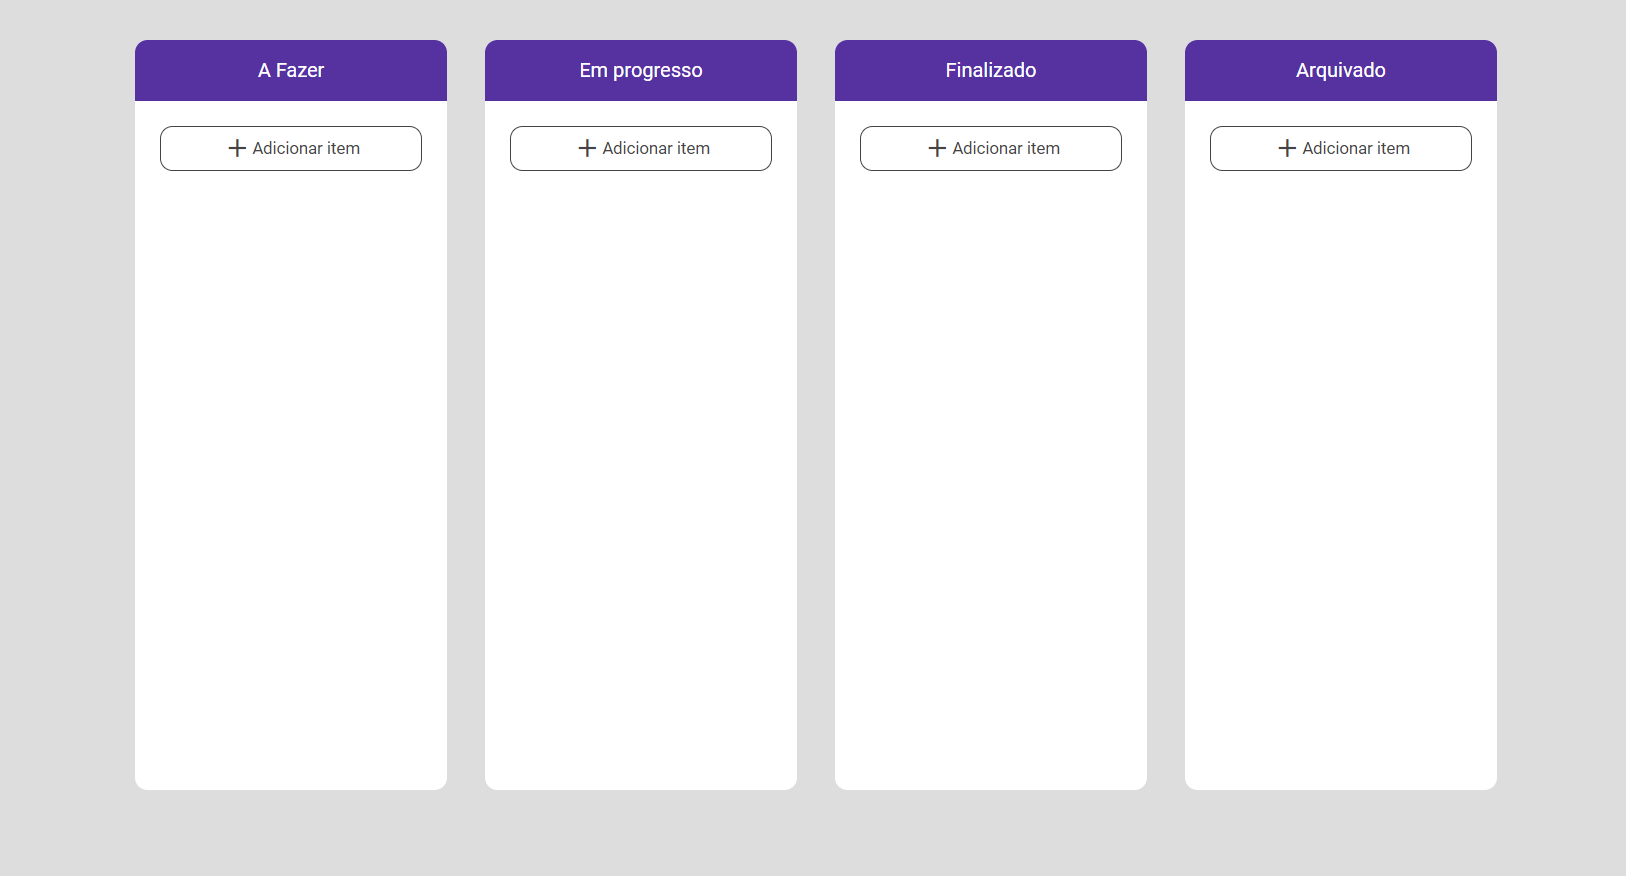
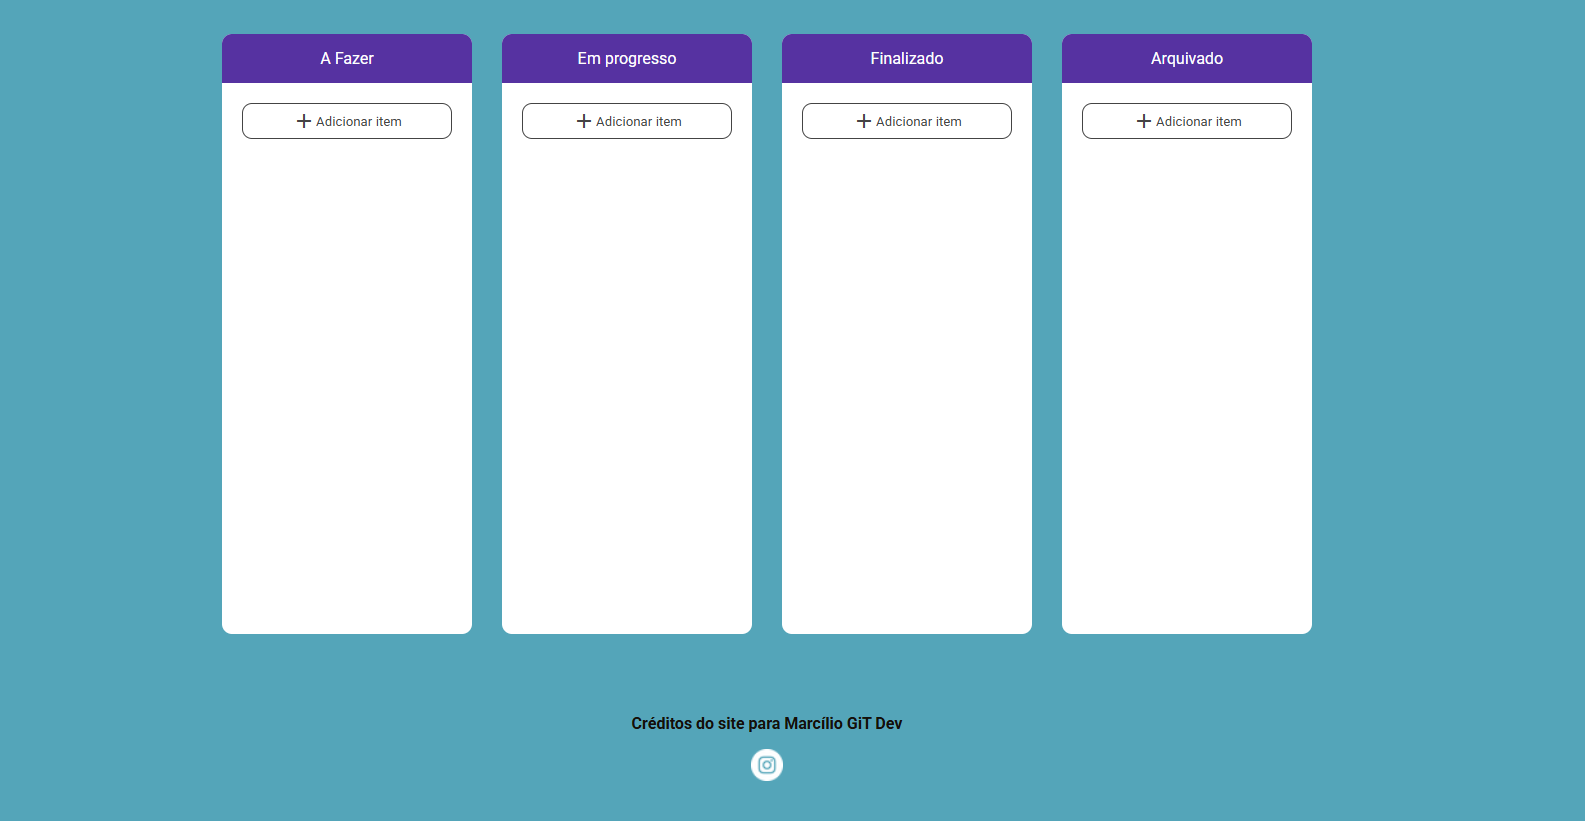
Add files via upload

diff --git a/style.css b/style.css
@@ -11,7 +11,7 @@
   }
   
   body {
-    background-color: #DDD;
+    background-color: #54a5b9;
   }
   
   .header {
@@ -180,4 +180,27 @@
           display: block;
           margin-left: auto;
         }
-  
+       .footer-creditos {
+       display: block;
+       text-align: center;
+       margin-top: 30px;
+       color: #140f0a;
+       text-decoration: none;
+       font-weight: bold;
+       }
+       .footer-social {
+       text-align: center;
+       margin-top: 1rem;
+       color: #350a86;
+       }
+
+       .footer-social a img {
+       height: 32px;
+       transition: transform 0.3s ease, filter 0.3s ease;
+       }
+
+       .footer-social a:hover img {
+       transform: scale(1.1);
+       filter: brightness(1.2);
+       filter: hue-rotate(320deg) saturate(1.5);
+       }

diff --git a/index.html b/index.html
@@ -108,6 +108,15 @@
       </div>
     </div>
   </div>
+      </div>
+    <div class="footer-creditos">
+      Créditos do site para Marcílio GiT Dev
+    </div>
+    <div class="footer-social">
+      <a href="https://instagram.com/_marciliox" target="_blank" rel="noopener">
+        <img src="https://ext.same-assets.com/2292570714/462745726.png" alt="Instagram" height="24"/>
+      </a>
+    </div>
 
   <script src="script.js"></script>
 </body>
